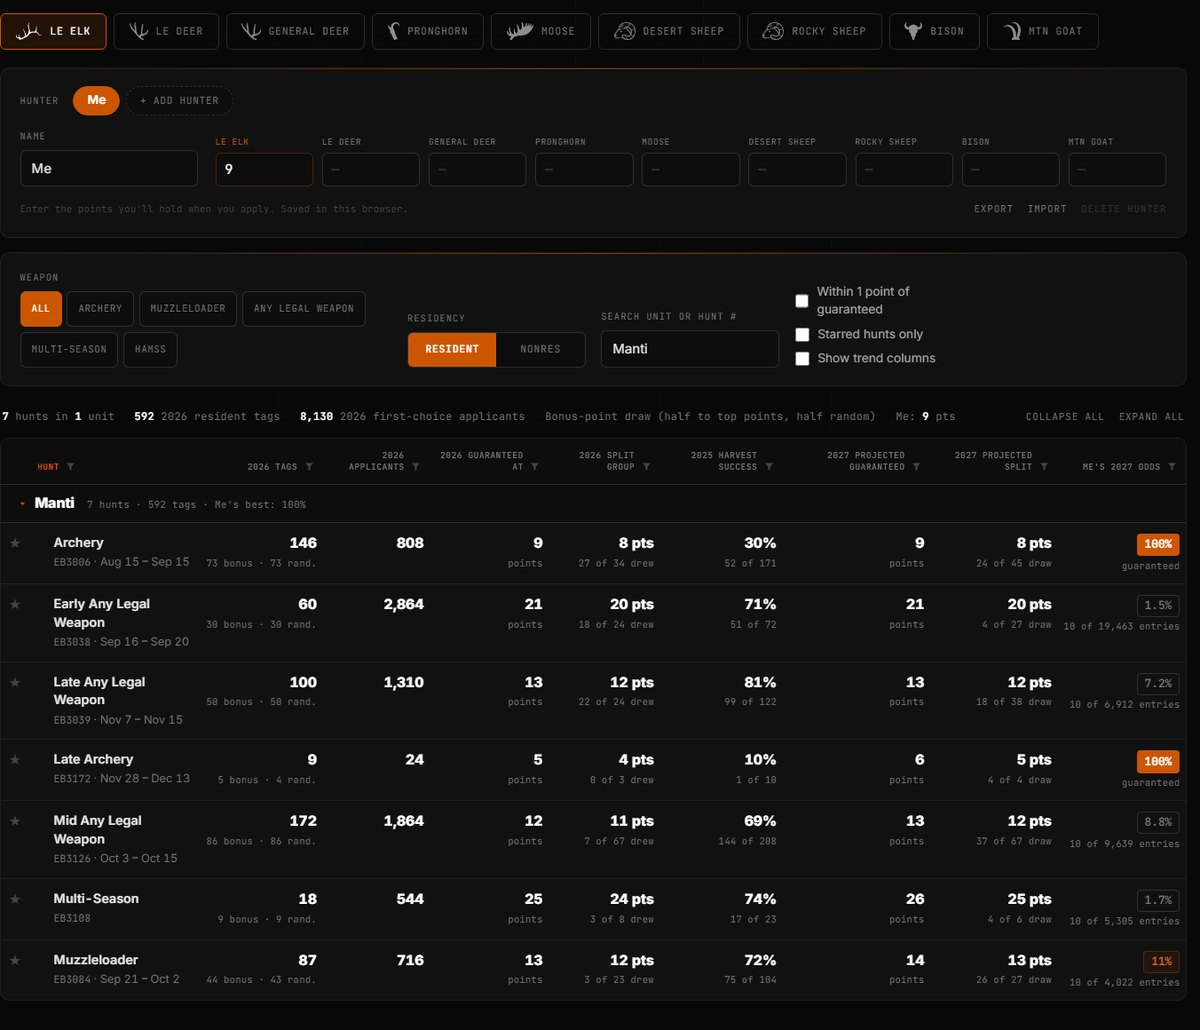
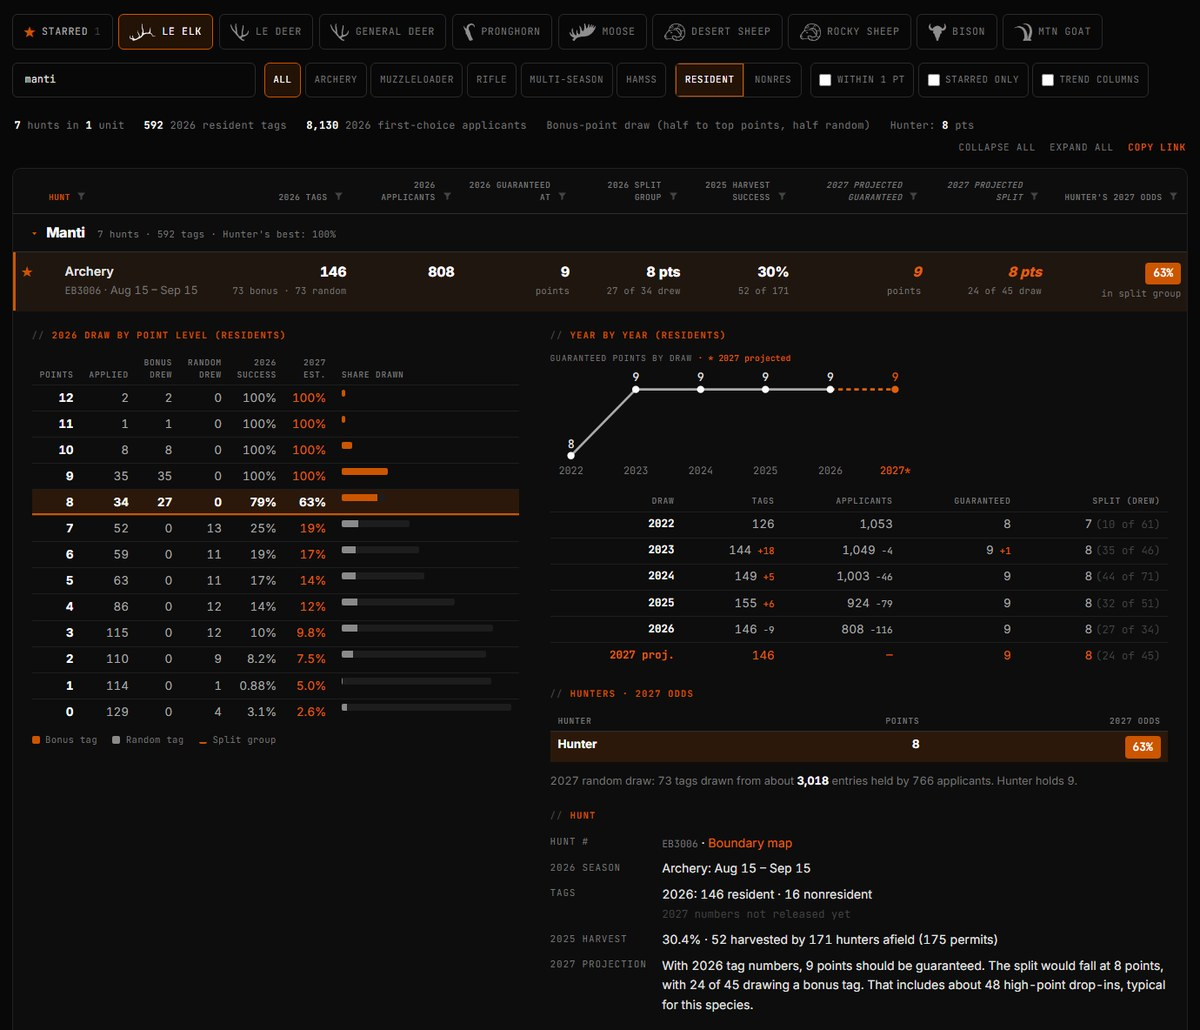
Apps page: "Free online tools" heading, refreshed Draw Odds entry
- Centered "Free online tools" heading above the Draw Odds card, so it
  reads apart from the paid apps and their offline claims.
- Draw Odds entry: five bullets covering drop-ins, the point creep
  chart, starred hunts, phones and shareable links.
- New screenshot of the current page with a hunt opened (neutral
  "Hunter", no family data).

diff --git a/apps.html b/apps.html
@@ -100,7 +100,9 @@
    Sort -> View -> Track -> Score flow above, so it gets its own card below the
    trust strip instead of a fifth step. Same card look as .hero-fcard, laid out
    in a row. */
-.hero-pre { display: flex; align-items: center; gap: 1.25rem; max-width: 760px; margin: 2rem auto 0; padding: 1.2rem 1.4rem; background: var(--card); border: 1px solid var(--border); border-radius: 10px; text-decoration: none; text-align: left; transition: border-color 0.25s, background 0.25s, transform 0.25s; }
+.hero-prehead { max-width: 760px; margin: 3rem auto 0; text-align: center; }
+.hero-prehead h2 { font-size: 1.35rem; font-weight: 800; color: #fff; letter-spacing: -0.01em; }
+.hero-pre { display: flex; align-items: center; gap: 1.25rem; max-width: 760px; margin: 0.9rem auto 0; padding: 1.2rem 1.4rem; background: var(--card); border: 1px solid var(--border); border-radius: 10px; text-decoration: none; text-align: left; transition: border-color 0.25s, background 0.25s, transform 0.25s; }
 .hero-pre:hover { border-color: var(--border-orange); background: var(--card2); transform: translateY(-3px); }
 .hero-pre img { width: 46px; height: 46px; border-radius: 9px; flex: none; }
 .hero-pre-head { display: flex; flex-wrap: wrap; align-items: baseline; gap: 0.3rem 0.8rem; margin-bottom: 0.3rem; }
@@ -189,7 +191,12 @@
       <span>Your data never leaves your device</span>
     </div>
     <!-- Draw Odds sits outside the workflow on purpose: it is used before the
-         hunt, when you apply. Its description matches the app-row lead below. -->
+         hunt, when you apply. A small heading separates it from the paid apps
+         (and from their offline claims above), and gives future free tools a home.
+         Its description matches the app-row lead below. -->
+    <div class="hero-prehead">
+      <h2>Free online tools</h2>
+    </div>
     <a class="hero-pre" href="#drawodds">
       <img src="img/drawodds-icon.png" alt="">
       <span>
@@ -327,8 +334,10 @@
         <p class="app-row-tag">See what it took to draw every Utah limited-entry and once-in-a-lifetime hunt, where the tags split, and your own odds for next year's draw at the points you hold.</p>
         <ul class="app-points">
           <li>Every Utah limited-entry and once-in-a-lifetime big game hunt, plus general-season buck deer: tags, applicants, guaranteed points, the split group and harvest success</li>
-          <li>Next year's guaranteed points and your odds, worked out the way the draw actually runs: half the tags to the top points, the rest drawn with one entry per bonus point plus one</li>
-          <li>Five years of draw history per hunt. Save points for each hunter in your family; they stay in your browser</li>
+          <li>Next year's guaranteed points and your odds, worked out the way the draw actually runs (half the tags to the top points, the rest drawn with one entry per bonus point plus one), including the high-point hunters who usually drop in</li>
+          <li>Five years of draw history per hunt, with a chart of how fast the points are creeping</li>
+          <li>Star hunts across every species and compare each family member's odds side by side. Points stay in your browser</li>
+          <li>Works on your phone, and a copied link opens exactly the hunts you're looking at</li>
         </ul>
         <p class="app-price"><strong>Free</strong> · runs in your browser, nothing to install, no account · Utah for now</p>
         <div class="rd-buttons">
@@ -336,7 +345,7 @@
         </div>
       </div>
       <div class="app-row-media">
-        <img src="img/drawodds-screenshot.jpg" alt="The Draw Odds table for Manti limited-entry elk: tags, applicants, guaranteed points, split group, harvest success, projected guaranteed points and a hunter's odds for each hunt" class="rd-elk">
+        <img src="img/drawodds-screenshot.jpg" alt="Draw Odds for Manti limited-entry elk with the archery hunt opened: its numbers in the table, the draw by point level, a chart of guaranteed points over five years plus next year's projection, the year-by-year table, and a hunter's 63% odds at 8 points" class="rd-elk">
       </div>
     </div>
 

diff --git a/CLAUDE.md b/CLAUDE.md
@@ -111,7 +111,7 @@ free web tool used *before* the hunt, when you apply for tags (the owner's call,
 2026-11-24).
 - **Never a fifth step:** don't give it a step number or verb, or an arrow in the flow.
 - **Where it's listed:**
-  - `apps.html`: its own `.hero-pre` card under the trust strip, an `#drawodds` app-row after Rack Scorer, a row in the comparison table ("All five at a glance"), and a button.
+  - `apps.html`: its own `.hero-pre` card under the trust strip, set off by a small centered "Free online tools" heading (`.hero-prehead`, added 2026-11-24; the owner preferred it to a label divider and dropped the subtitle) so the paid apps' offline claims don't read as covering it and future free tools have a place; an `#drawodds` app-row after Rack Scorer (five bullets and a screenshot refreshed 2026-11-24: neutral "Hunter" at 8 LE elk points, Manti archery EB3006 opened, taken with `?sp=le-elk&q=manti&h=EB3006`), a row in the comparison table ("All five at a glance"), and a button.
   - `index.html`: a full-width `.app-tile.wide` under the four tiles.
 - **Same sentence:** its hero card and app-row lead share one sentence, like the others. The index tile adds "Before the hunt:".
 - **Icon:** `img/drawodds-icon.png` (and the 64 px `img/menu-drawodds.png`): an orange notched hunting tag, tilted 6°, with the black antler mark and a punch hole, on a transparent background. Chosen by the owner on 2026-11-24 to replace the dice placeholder. Source: `tools/draw-odds/drawodds-icon.svg`.
